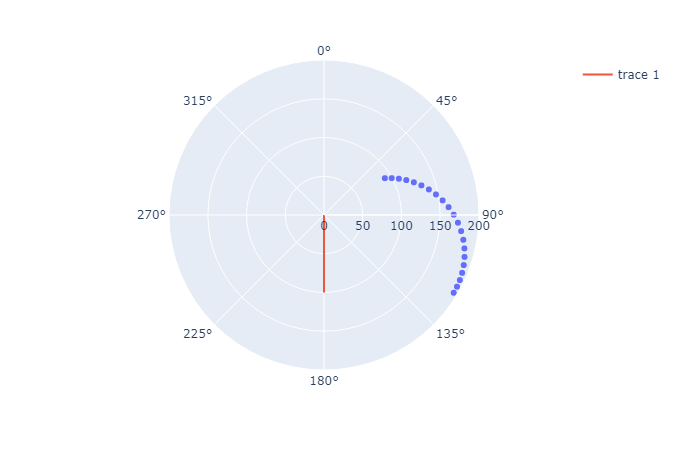
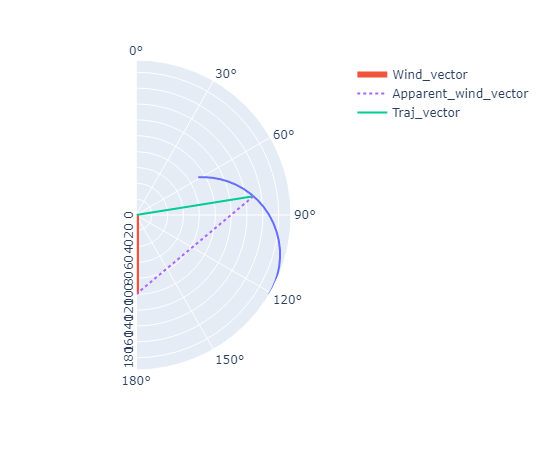
add trajectory

diff --git a/model.py b/model.py
@@ -141,7 +141,13 @@ import plotly.express as px
 import plotly.figure_factory as ff
 import plotly.graph_objects as go
 
-fig = px.scatter_polar(df, r="apparent_watter_pct", theta="true_wind_angle", labels='toto')
+fig = px.line_polar(df, r="apparent_watter_pct", theta="true_wind_angle", 
+        range_theta=[-90,90],  
+    
+        )
+
+# fig.update_polars(gridshape='linear')
+
 
 
 # add wind
@@ -149,19 +155,58 @@ fig.add_trace(go.Scatterpolar(
         mode = "lines",
         r = [0,100],
         theta = [0,180],
-    ))
+        name='Wind_vector',
+        line=dict(
+            width =6,)
+    
+        )
+    )
 
-# trajectory :
+# trajectory 
+vr=fk.fluid_velocity_ratio()
+current_apparent_watter_pct = fk.apparent_watter(vr)/fk.wind_speed *100
+current_true_wind_angle = fk.true_wind_angle(vr)
+
+
 fig.add_trace(go.Scatterpolar(
         mode = "lines",
-        r = [0,100],
-        theta = [0,180],
-    ))
+        r = [0,current_apparent_watter_pct],
+        theta = [0,current_true_wind_angle],
+        name='Traj_vector',
+        )
+    )
 
+
+fig.add_trace(go.Scatterpolar(
+        mode = "lines",
+        r = [100,current_apparent_watter_pct],
+        theta = [180,current_true_wind_angle],
+        #legendgroup="vector",
+        name='Apparent_wind_vector',
+        line=dict(
+            dash ='dot',)
+        )
+    )
+
+
+# fig.update_polars( bgcolor="rgba(223, 223, 223, 0)")
+# fig.add_layout_image(
+#         dict(
+#             source="polar_background.png",
+#             xref="x",
+#             yref="y",
+#             x=0,
+#             y=0,
+#             sizex=4,
+#             sizey=4,
+#             sizing="stretch",
+#             xanchor="left",
+#             yanchor="middle",
+#             opacity=0.7,
+#             layer="below")
+# )
 
 fig.show()
-
-
 
 
 #%% 
